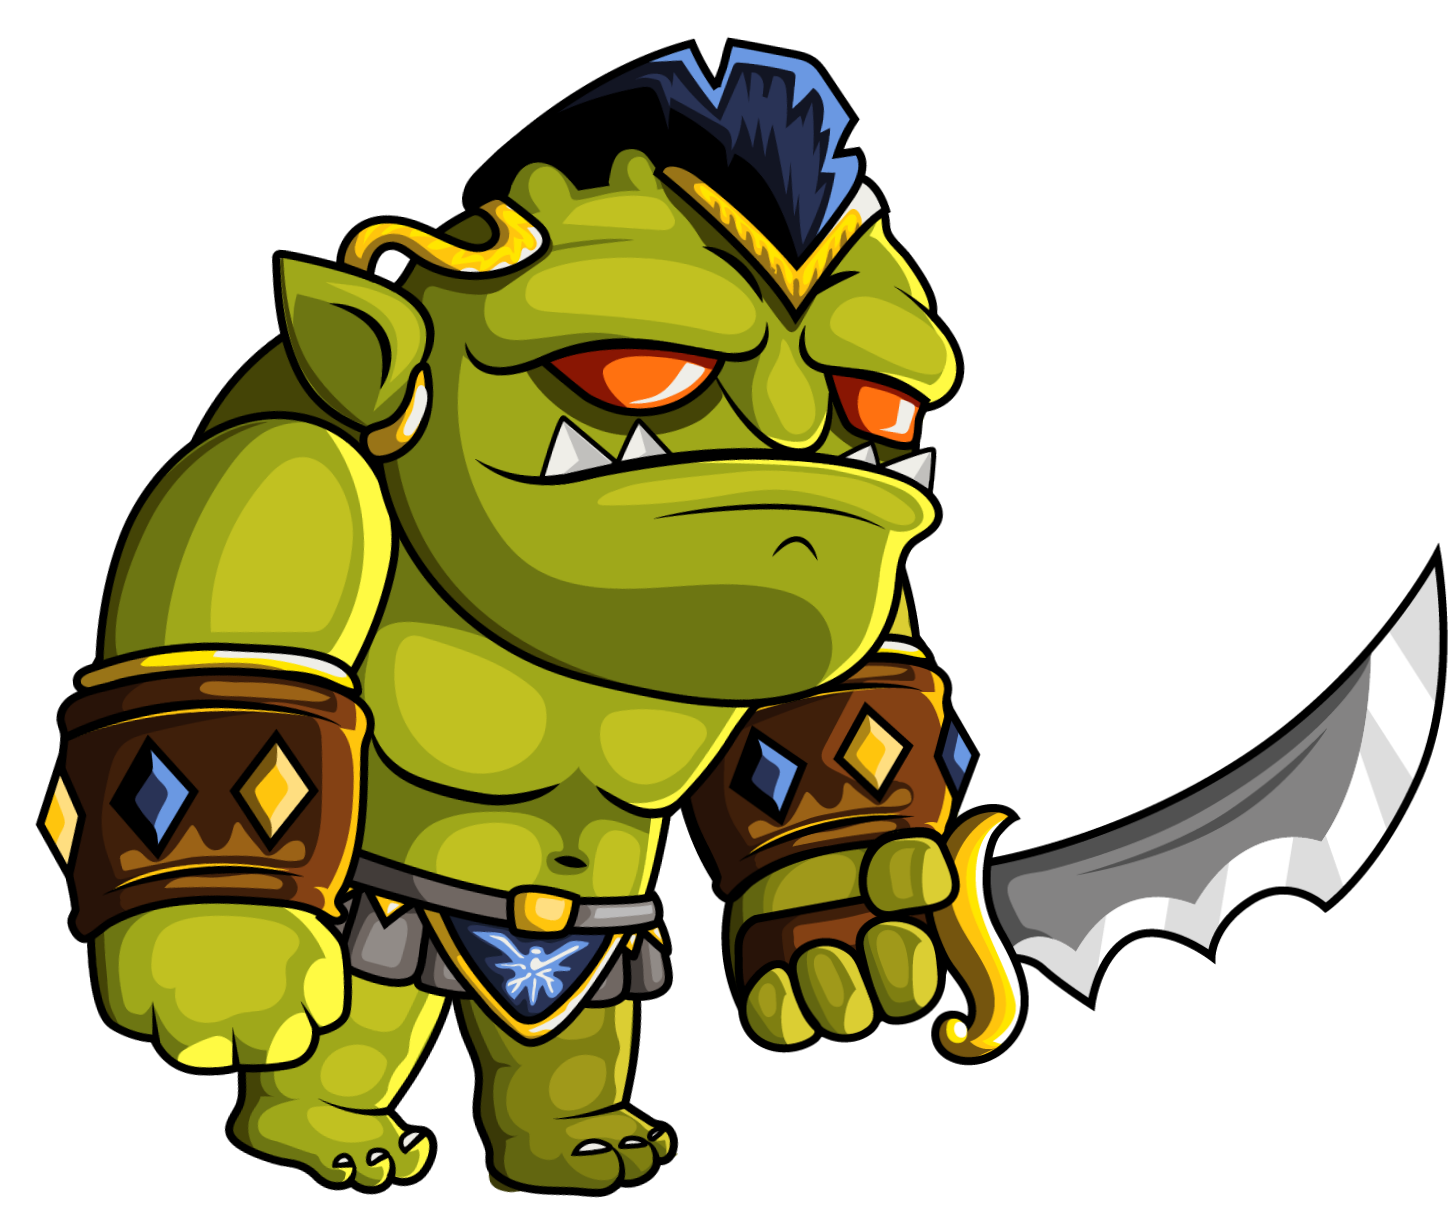
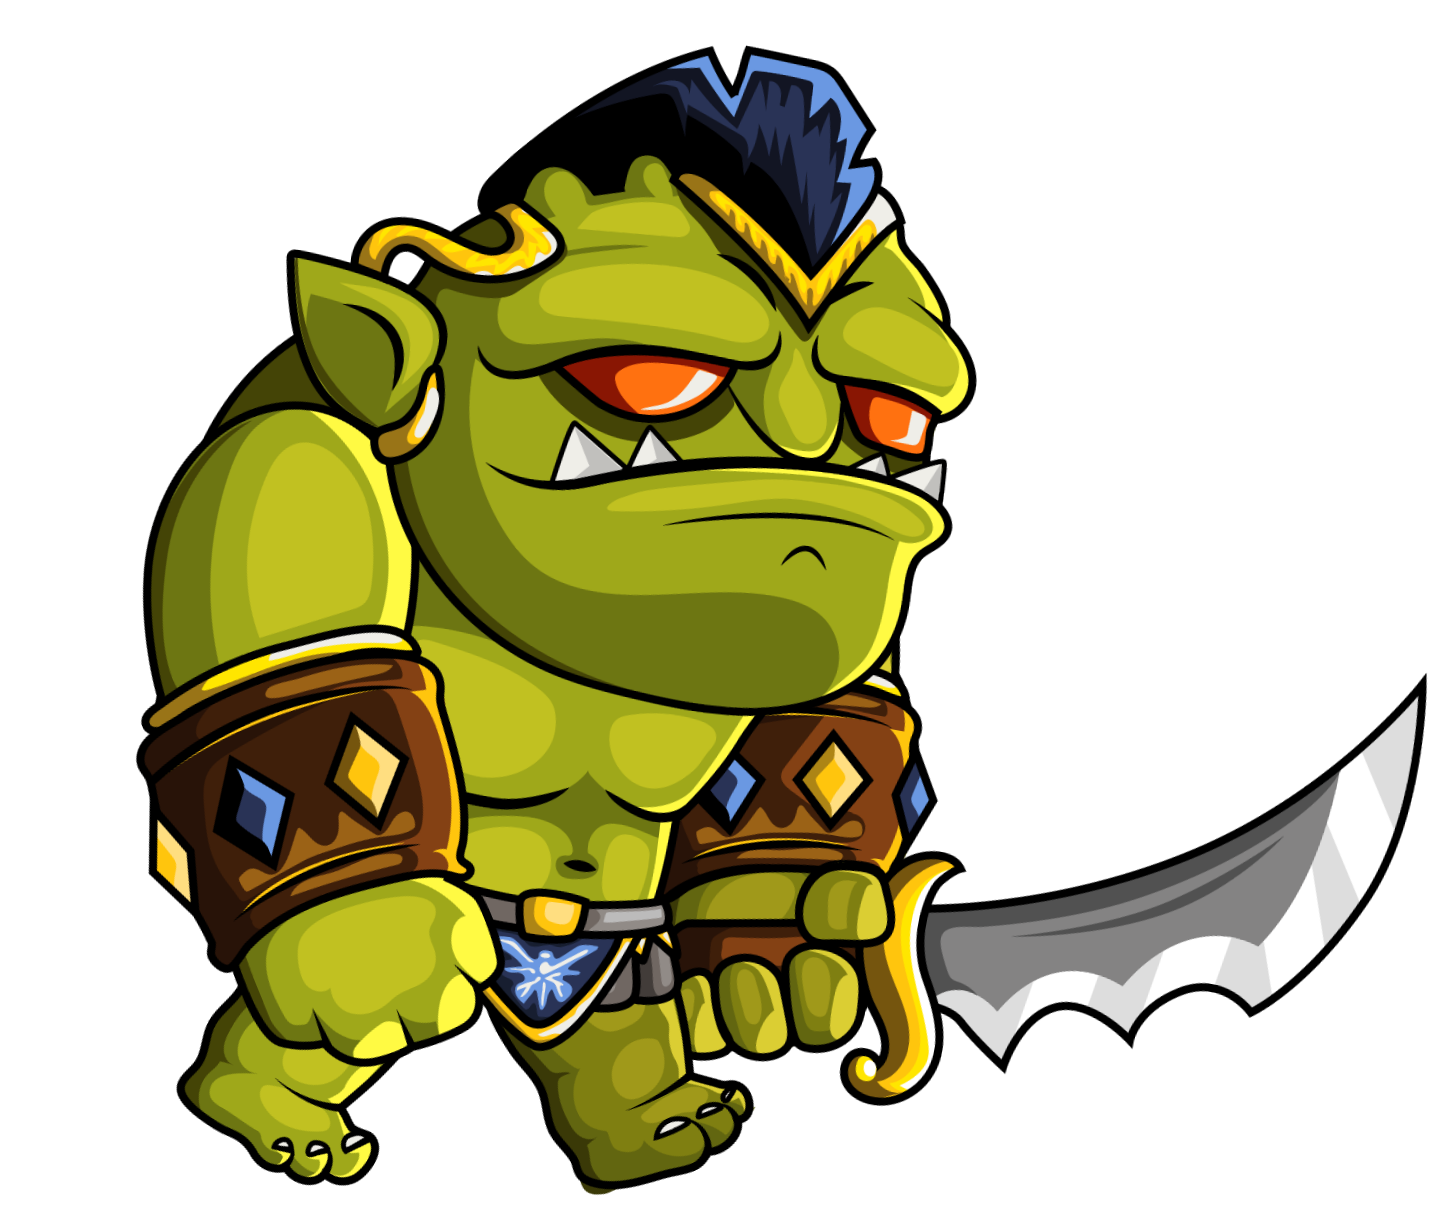
Movement

diff --git a/Enemy/Orge_2.py b/Enemy/Orge_2.py
@@ -8,10 +8,10 @@ Images = []
 
 
 # add image for the Orge2
-for x in range(3):
+for x in range(5):
     string = str(x)
     Images.append(pygame.transform.scale(
-        pygame.image.load(os.path.join("Assets/ORG/2_ORK/WALK", "WALK_00" + string + ".png")), (50, 50)))
+        pygame.image.load(os.path.join("Assets/ORG/2_ORK/RUN", "RUN_00" + string + ".png")), (50, 50)))
 
 
 # create a class for orge while inherit properties from Enemy File

diff --git a/Enemy/Orge_3.py b/Enemy/Orge_3.py
@@ -9,10 +9,10 @@ images = []
 
 
 # add image for the Orge3
-for x in range(3):
+for x in range(4):
     string = str(x)
     images.append(pygame.transform.scale(
-        pygame.image.load(os.path.join("Assets/ORG/3_ORK/WALK", "WALK_00" + string + ".png")), (50, 50)))
+        pygame.image.load(os.path.join("Assets/ORG/3_ORK/RUN", "RUN_00" + string + ".png")), (50, 50)))
 
 
 # create a class for orge while inherit properties from Enemy File
